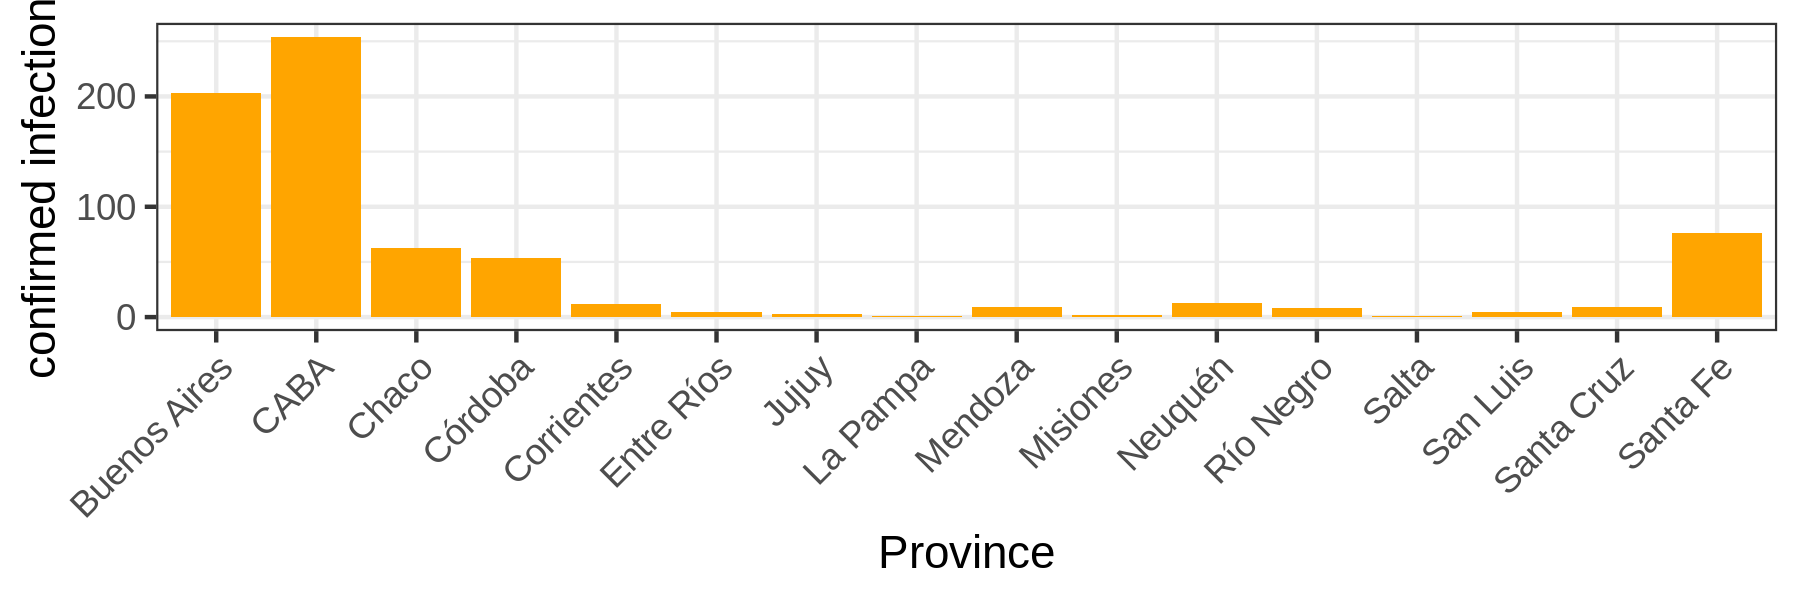
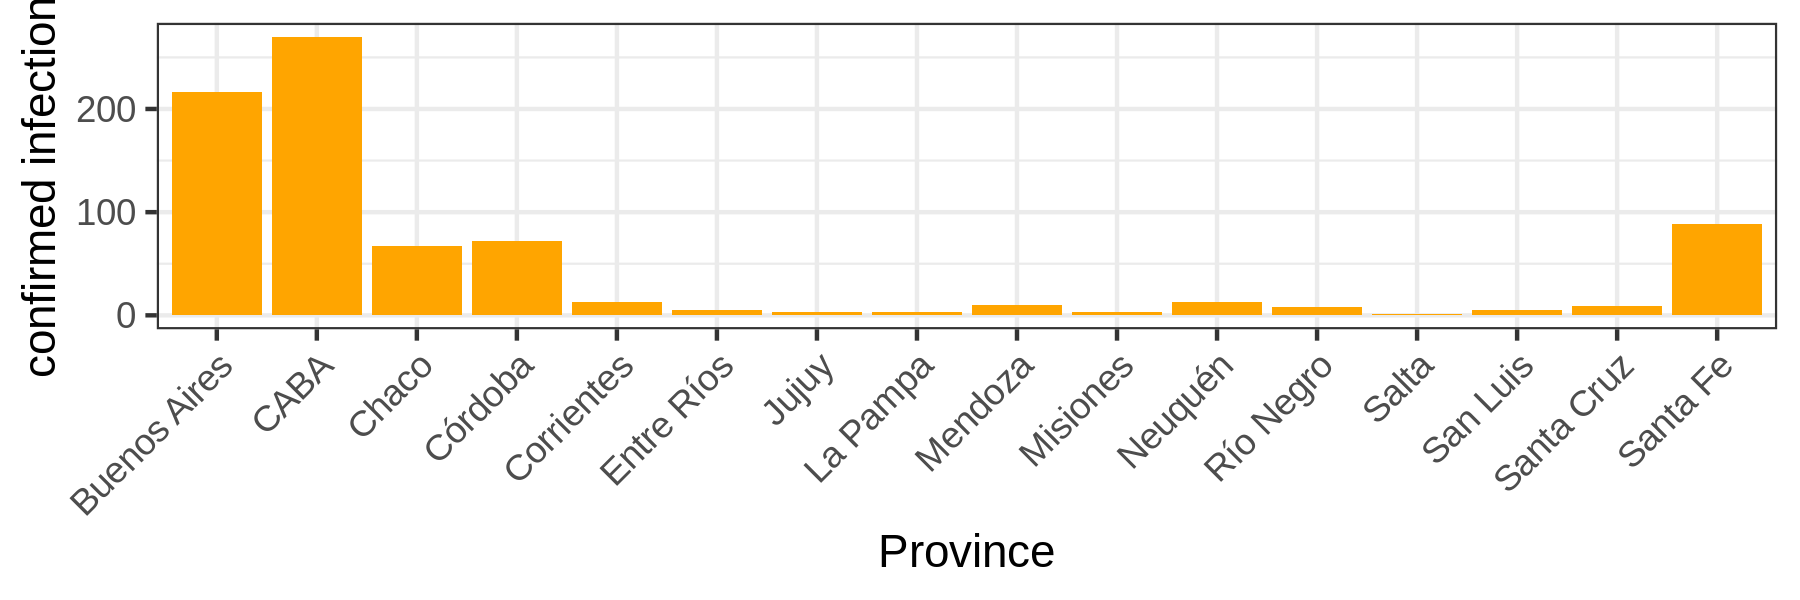
add info from 03/29/2020 oficial report

diff --git a/README.md b/README.md
@@ -26,8 +26,9 @@ names(covid19_arg)
     ## [23] "Río Negro"             "Salta"                
     ## [25] "San Luis"              "Santa Cruz"           
     ## [27] "Santa Fe"              "Santiago del Estero"  
-    ## [29] "Tierra del Fuego"      "Tucumán"              
-    ## [31] "X31"
+    ## [29] "Tierra del Fuego"      "San Juan"             
+    ## [31] "La Rioja"              "Tucumán"              
+    ## [33] "X33"
 
 Example
 =======
@@ -140,7 +141,7 @@ ggplot()+
   theme_bw()+
   theme(axis.text.x = element_text(angle = 45, hjust = 1))+
   facet_wrap(~Province, ncol = 3)+
-  ggsave("images/totalprovinces.png",height = 2,width =6)
+  ggsave("images/totalprovinces.png",height = 4,width =6)
 ```
 
 ![](README_files/figure-markdown_github/unnamed-chunk-7-1.png)
